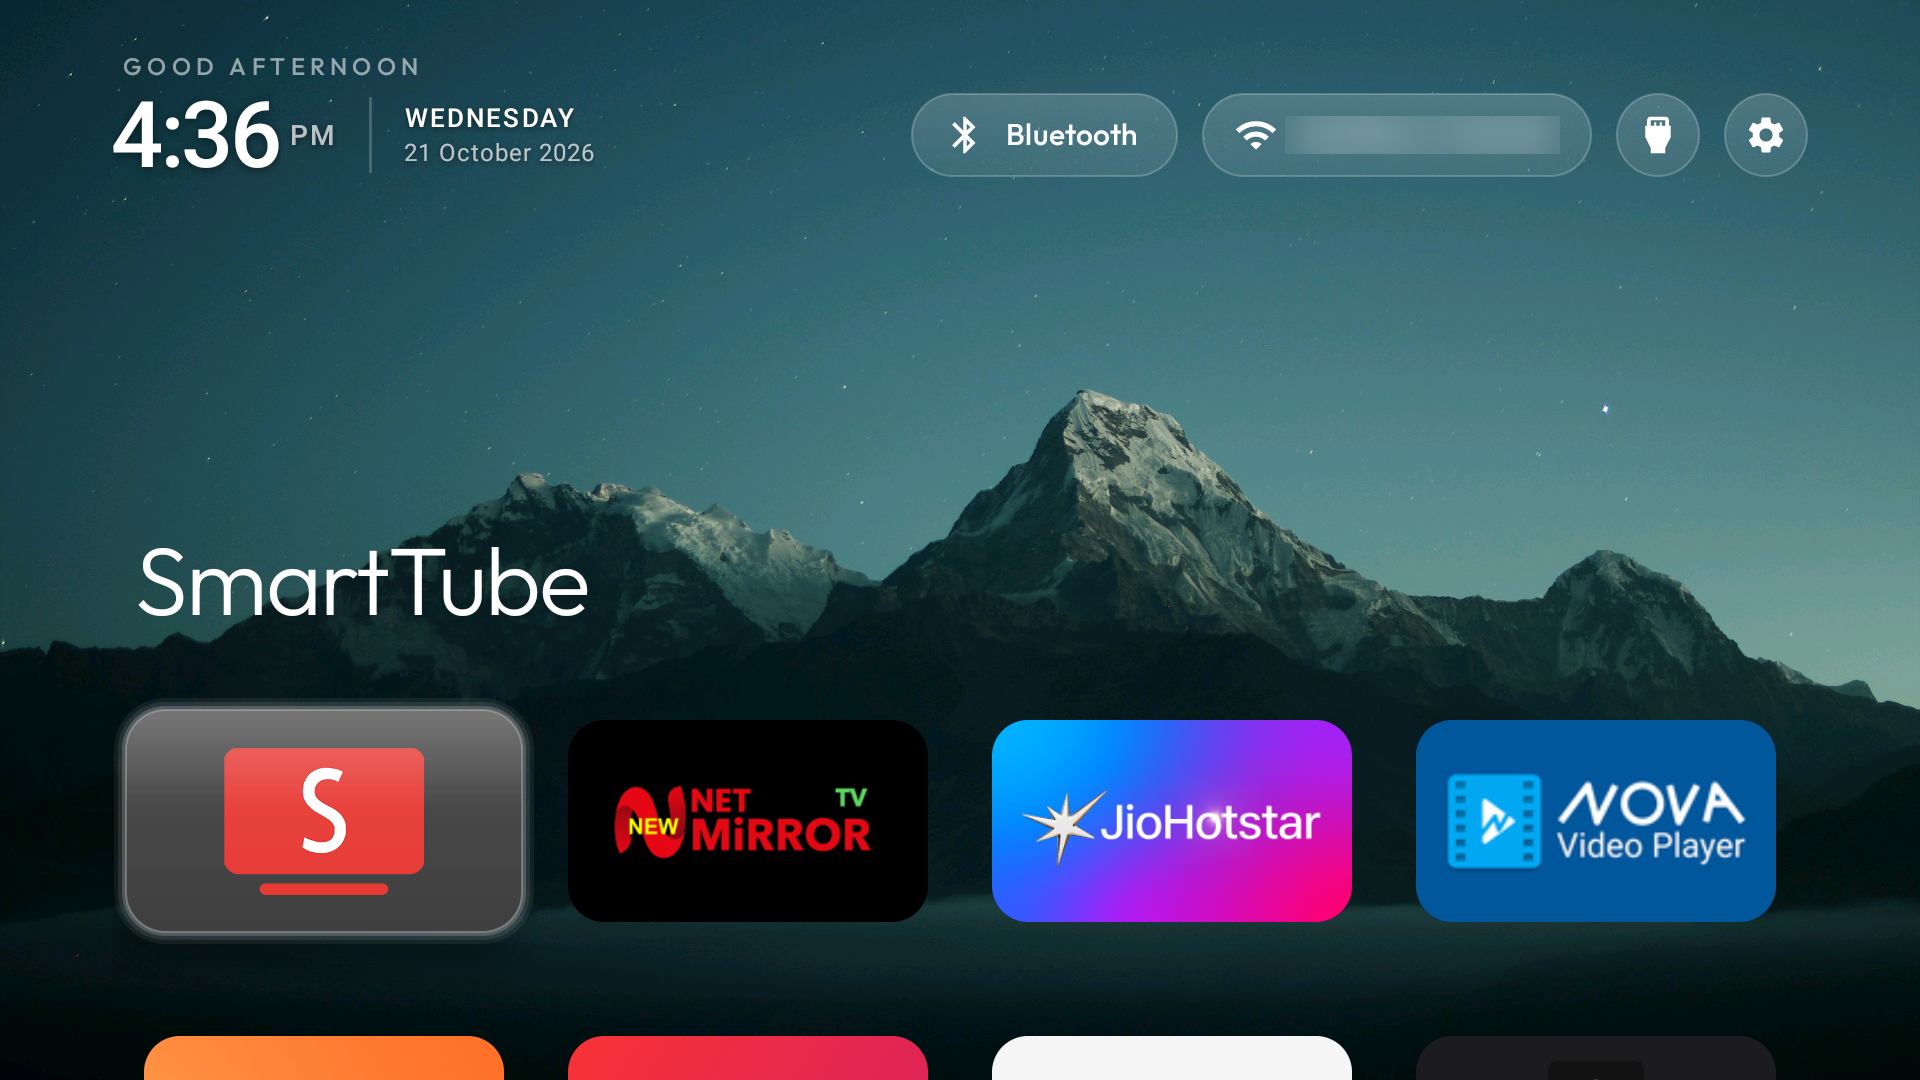
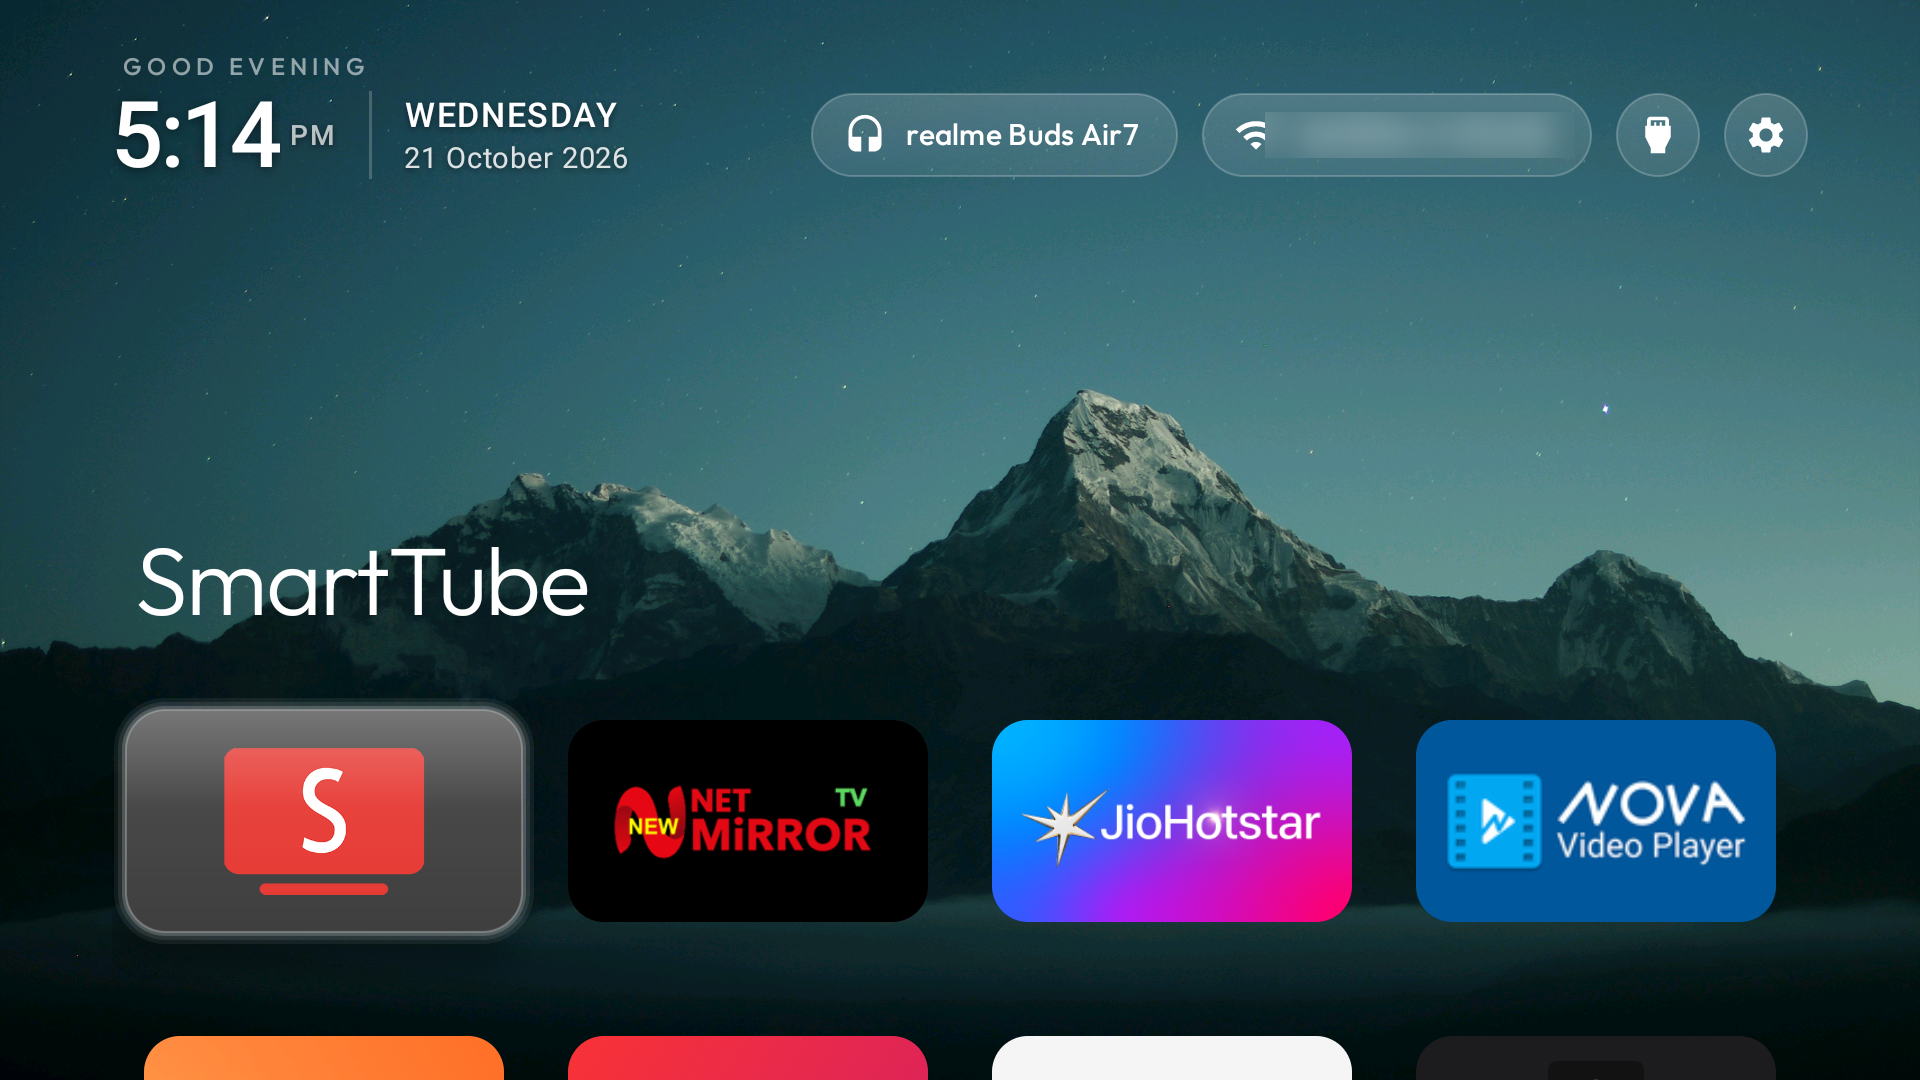
refactor: increase date/day font scale and add smart whole-word Bluetooth name formatting

Changed region(s): [[0.0625, 0.0306, 0.3438, 0.1528], [0.4062, 0.0611, 0.5938, 0.1528]]

diff --git a/launcher/app/src/main/java/com/gathin/tvhome/MainActivity.java b/launcher/app/src/main/java/com/gathin/tvhome/MainActivity.java
@@ -2077,14 +2077,39 @@ public class MainActivity extends Activity implements AppAdapter.TileListener {
         BluetoothDialog.show(this, btnBluetooth, bluetoothHelper);
     }
 
+    private String formatBluetoothName(String rawName) {
+        if (rawName == null || rawName.trim().isEmpty()) return "Bluetooth";
+        
+        // Clean out leading/trailing whitespace
+        String clean = rawName.trim();
+        
+        // Split into words
+        String[] words = clean.split("\\s+");
+        
+        // If 1, 2, or 3 words total and fits within 22 characters, show them all
+        if (words.length <= 3 && clean.length() <= 22) {
+            return clean;
+        }
+        
+        // Otherwise, take the first 2 or 3 complete words without breaking words mid-way
+        StringBuilder sb = new StringBuilder();
+        int count = Math.min(words.length, 3);
+        for (int i = 0; i < count; i++) {
+            if (i > 0) sb.append(" ");
+            sb.append(words[i]);
+            // Stop if we have 2 words and adding another makes it excessively long (>20 chars)
+            if (i >= 1 && sb.length() >= 16) {
+                break;
+            }
+        }
+        return sb.toString();
+    }
+
     private void updateBluetoothPill() {
         if (btnBluetooth == null || bluetoothHelper == null) return;
         BluetoothHelper.DeviceInfo active = bluetoothHelper.getActivePillDevice();
         if (active != null) {
-            String label = active.name;
-            if (label.length() > 16) {
-                label = label.substring(0, 14) + "…";
-            }
+            String label = formatBluetoothName(active.name);
             if (active.isAudio) {
                 btnBluetooth.setText(label);
                 btnBluetooth.setCompoundDrawablesRelativeWithIntrinsicBounds(R.drawable.ic_headset, 0, 0, 0);
